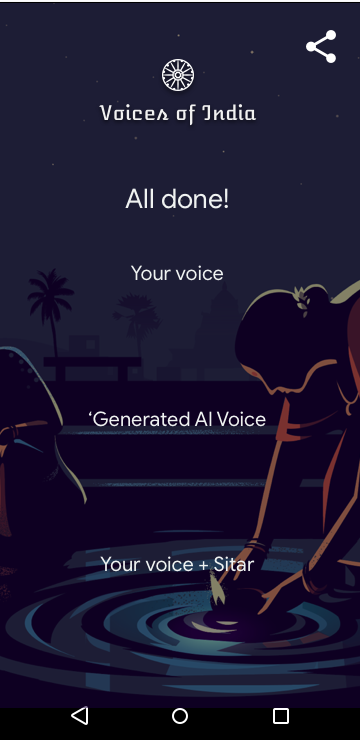
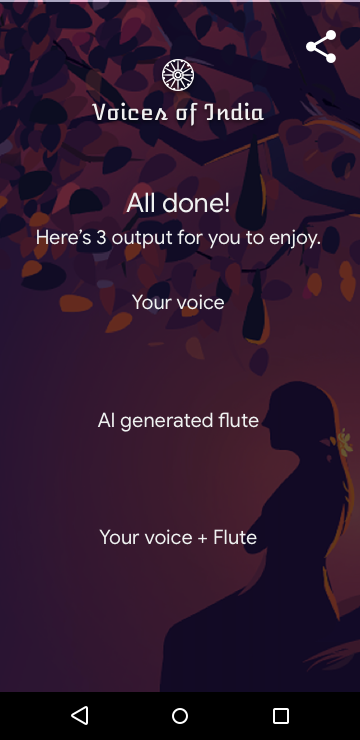
imporved UI & CSS

diff --git a/sound-tone-transfer/static/main.css b/sound-tone-transfer/static/main.css
@@ -1,5 +1,3 @@
-
-
 .button-container{
 	display:inline-block;
 	position:relative;
@@ -9,79 +7,56 @@
 }
 
 img {
-	width: 100%;
-	height: auto;
+  width: 100%;
+  height: auto;
 }
 
 
 .start-button {
-	position:relative;
-	bottom: 60em;
-	width: 20em;
-	height: 8em;
-	background-color:#F2A51A;
-	border-radius:1.5em;
-	color:white;
-	text-transform:uppercase;
-	display: inline-block;
-}
-
-#intro_button {
-	position:relative;
-	bottom: 30em;
-	width: 20em;
-	height: 8em;
-	background-color:#F2A51A;
-	border-radius:1.5em;
-	color:white;
-	text-transform:uppercase;
-	display: inline-block;
+  position: absolute;
+	left: 50%;
+	bottom: 20%;
+	height: 10vw;
+	width: 20vw;
+  margin-left: -10vw; 
+  display: inline-block;
+  background-color:#F2A51A;
+	border-radius:5vw;
+  font-size: 3vw;
 }
 
 .loading-bar {
-	position:relative;
-	bottom: 14em;
-	width: 4em;
-	height: 4em;
-	border-radius:1.5em;
-	color:white;
-	text-transform:uppercase;
+	position:absolute;
+	left: 50%;
+	width: 24vw;
+	margin-left: -12vw; 
+	bottom: 20%;
 	display: inline-block;	
 }
 
-
-.replay-button{
-	position:relative;
-	bottom: 100em;
-	width: 20em;
-	height: 8em;
-	background-color:#F2A51A;
-	border-radius:1.5em;
-	color:white;
-	text-transform:uppercase;
+.replay-button {
+	position:absolute;
+	left: 50%;
+	width: 16vw;
+	margin-left: -8vw; 
+	bottom: 48%;
 	display: inline-block;
 }
 
-.flute-button{
-	position:relative;
-	bottom: 75em;
-	width: 20em;
-	height: 8em;
-	background-color:#F2A51A;
-	border-radius:1.5em;
-	color:white;
-	text-transform:uppercase;
-	display: inline-block;
+.flute-button {
+	position:absolute;
+	left: 50%;
+	width: 16vw;
+	margin-left: -8vw; 
+	bottom: 32%;
+	display: inline-block;	
 }
 
-.mixed-button{
-	position:relative;
-	bottom: 50em;
-	width: 20em;
-	height: 8em;
-	background-color:#F2A51A;
-	border-radius:1.5em;
-	color:white;
-	text-transform:uppercase;
-	display: inline-block;
+.mixed-button {
+	position:absolute;
+	left: 50%;
+	width: 16vw;
+	margin-left: -8vw; 
+	bottom: 15%;
+	display: inline-block;	
 }

diff --git a/sound-tone-transfer/templates/processed.html b/sound-tone-transfer/templates/processed.html
@@ -16,22 +16,18 @@
 
 	<script src="{{ url_for('static', filename='index.js') }}"></script>
     <div class="button-container">
-      <img src="{{ url_for('static', filename='processed.png') }}" />
-      <button class="replay-button" type="button" onclick="playSoundReplay()">Replay</button>   
-<!--   <audio controls id="audio">
-    <source id="processed_id" src="" type="audio/mpeg">
-    Your browser does not support the audio element.
-  </audio> -->
-    </div>
+      <div>
+        <div>
+          <img src="https://storage.googleapis.com/sound-of-india/processed.png" />
+            <button class="replay-button" type="button" onclick="playSoundReplay()">Replay</button>
+            <button class="flute-button" type="button" onclick="playSoundFlute()">Flute Sound</button>
 
-    <div class="button-container">
-      <button class="flute-button" type="button" onclick="playSoundFlute()">Flute Sound</button>
-    </div>
-<!-- <button class="flute-button" type="button" onclick="playSoundFlute()">Flute Sound</button>
-      <button class="mixed-button" type="button" onclick="playSoundMixed()">Mixed Sound</button>
- -->
-    <div class="button-container">
-      <button class="mixed-button" type="button" onclick="playSoundMixed()">Mixed Sound</button>
+      <img class="replay-button" type="button" src="{{ url_for('static', filename='speaker.png') }}" onclick="playSoundReplay()" />
+
+    <img class="flute-button" type="button" src="{{ url_for('static', filename='speaker.png') }}" onclick="playSoundFlute()" />
+  <!--           <button class="mixed-button" type="button" onclick="playSoundMixed()">Mixed Sound</button> -->
+  <img class="mixed-button" type="button" src="{{ url_for('static', filename='speaker.png') }}" onclick="playSoundMixed()" />
+      </div>
     </div>
 
       <audio id="mixed_sound_id">

diff --git a/sound-tone-transfer/templates/intro.html b/sound-tone-transfer/templates/intro.html
@@ -9,9 +9,12 @@
   <body>
 
 
+
+
+
     <div class="button-container">
-      <img src="{{ url_for('static', filename='intro_1.png') }}" />
-      <button class="start-button" id="intro_button" onclick="recordButtonAction()">TRY IT MYSELF</button>
+      <img src="https://storage.cloud.google.com/sound-of-india/intro_1.png" />
+      <button class="start-button" id="intro_button">START</button>
     </div>
 
     <script type="text/javascript">

diff --git a/sound-tone-transfer/templates/start.html b/sound-tone-transfer/templates/start.html
@@ -16,7 +16,7 @@
 
     <div class="button-container">
       <img src="{{ url_for('static', filename='start_2.png') }}" />
-      <button class="start-button" id="intro_button" onclick="recordButtonAction()">Start</button>
+      <button class="start-button" id="intro_button" onclick="recordButtonAction()">Play Sample</button>
     </div>
 
     <script type="text/javascript">

diff --git a/sound-tone-transfer/voice_transfer.py b/sound-tone-transfer/voice_transfer.py
@@ -236,10 +236,10 @@ class VoiceTransfer(object):
         return self.output_file, self.output_mixed_file, self.original_file
 
 if __name__ == '__main__':
-    vt = VoiceTransfer('./sound/tanvi.webm')
+    vt = VoiceTransfer('./sound/slow_jana.mp3')
     vt.extract_feature()
-    vt.load_model('Violin')
-    for f0_octave_shift in np.arange(-2, 2, 1):
-      for f0_confidence_threshold in np.arange(0.0, 1.0, 0.2):
-        for loudness_db_shift in np.arange(-20, 21, 10):
+    vt.load_model('Flute2')
+    for f0_octave_shift in np.arange(0, 1, 1):
+      for f0_confidence_threshold in np.arange(0.2, 0.5, 0.2):
+        for loudness_db_shift in np.arange(-20, 21, 5):
           output_file = vt.transfer(f0_octave_shift, f0_confidence_threshold, loudness_db_shift)
